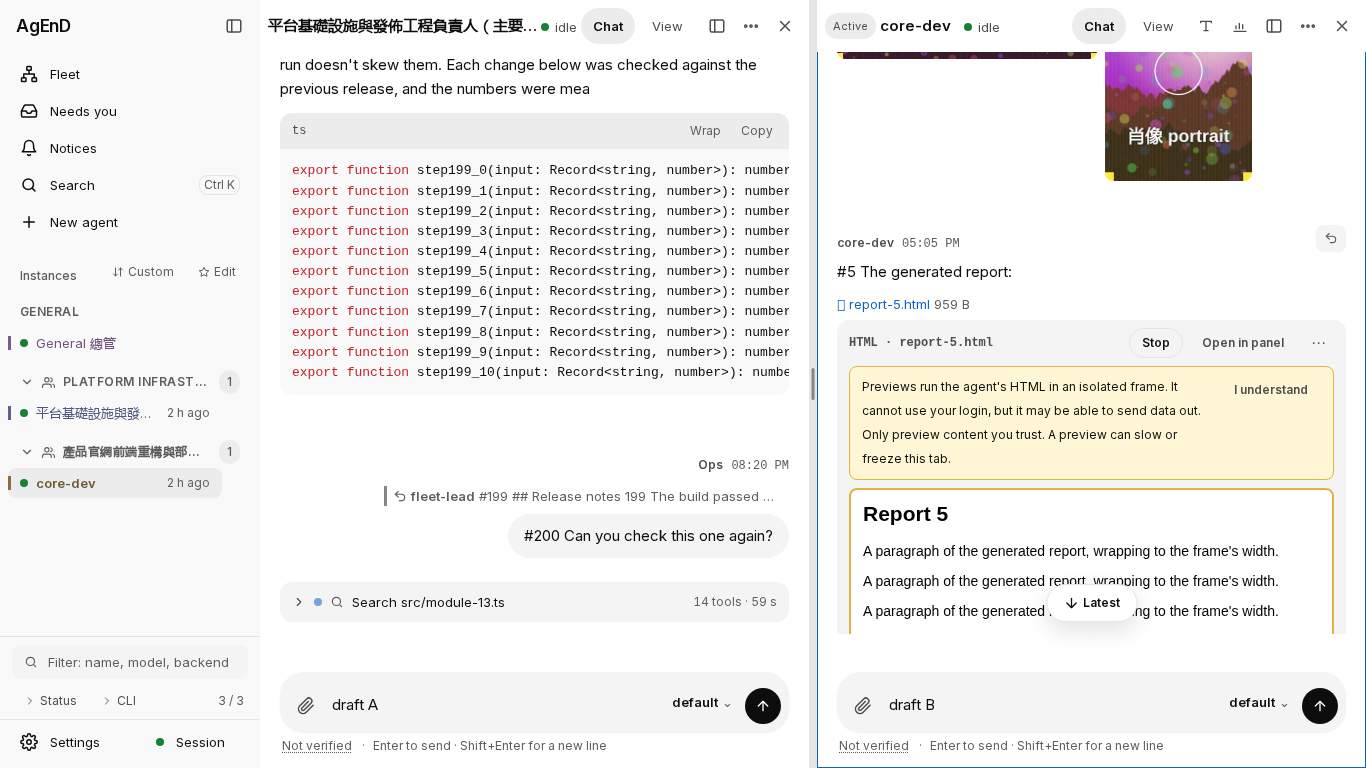
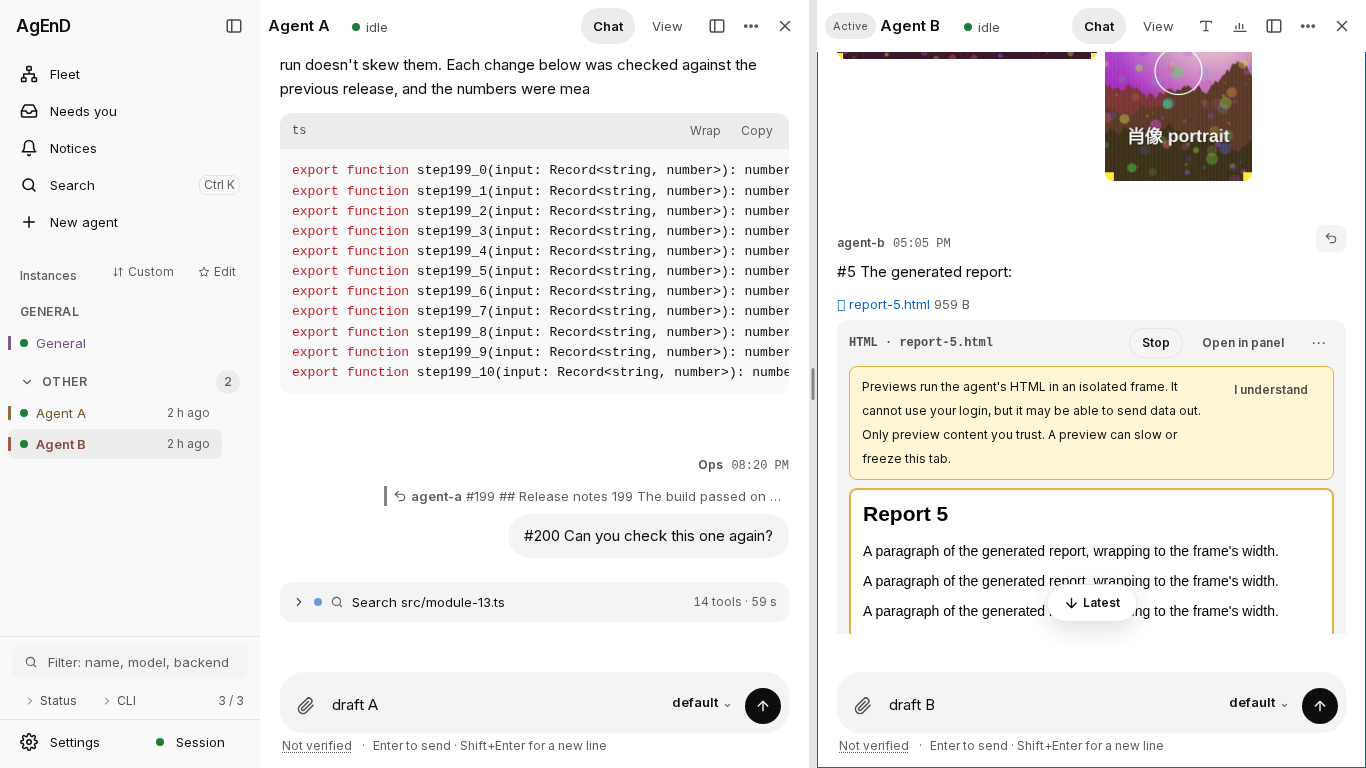
docs(evidence): M-3486 picture recaptured with a placeholder roster; result files relabelled (coordinator gate)

diff --git a/docs/evidence/split-drag-real-m3486/README.md b/docs/evidence/split-drag-real-m3486/README.md
@@ -13,7 +13,7 @@ Each of two agents has 200 messages, about 14,000 DOM nodes per pane:
 - reactions, reply quotes and status lines;
 - the live activity block (a turn of 14 tool steps, the last one running).
 
-The picture `fixture-1366.png` shows the drag's starting state. The drag moves the divider 120 px right and back, then
+The picture `fixture-1366.png` shows the drag's starting state. It was recaptured with a placeholder roster: General, Agent A, Agent B, and no teams. The measured runs used the fixture's default roster, whose agent names appear relabelled as agent-a/agent-b in the result files. Names don't affect the measurement. The drag moves the divider 120 px right and back, then
 left and back, one pointer move per frame (120 moves).
 
 **Before** is `origin/release/2.3.5-alpha` 1889715bf, which already has #4277; **after** is this branch. The runs
